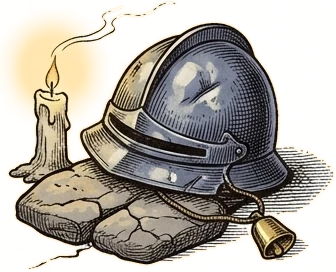
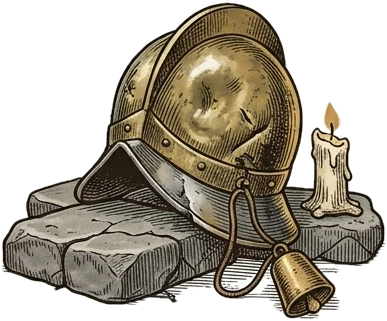
2.21.0: panels and end-screen pieces redrawn at their real proportions
Claude-Session: https://claude.ai/code/session_01DcTTRr3it9U614qgXSqALW

diff --git a/index.html b/index.html
@@ -755,8 +755,13 @@ button.primary:not(.link):not(.offer):active:not(:disabled) { filter: brightness
 .sm .skull { margin: 0 0 0 .2em; }
 
 /* panels */
-.status, details.rules, .shop, .end, .contract.board, .ware, .relic, .settle { background: none; border-color: transparent; border-radius: 0; border-image: url(assets/ui/panel2-main.webp) 32 fill / 12px stretch; }
-.status { gap: 0; } .status .stat { background: transparent; }
+.status, .shop, .end, .contract.board { background: none; border-color: transparent; border-radius: 0; border-image: url(assets/ui/panel3-main.webp) 96 fill / 26px stretch; }
+.settle { background: none; border-color: transparent; border-radius: 0; border-image: url(assets/ui/panel3-mid.webp) 96 fill / 26px stretch; }
+details.rules { background: none; border-color: transparent; border-radius: 0; border-image: url(assets/ui/panel3-banner.webp) 45 40 fill / 22.5px 20px stretch; }
+.ware { background: none; border-color: transparent; border-radius: 0; border-image: url(assets/ui/panel3-note.webp) 100 fill / 34px stretch; }
+.relic { background: rgba(8,12,18,.55); border: 1px solid #6e5a35; border-radius: 3px; border-image: none; }
+.relic.empty { background: none; border-color: transparent; border-radius: 0; border-image: url(assets/ui/panel3-slot.webp) 57 fill / 28.5px stretch; }
+.status { gap: 0; padding: 8px; } .status .stat { background: transparent; }
 .relic.empty { border-style: solid; }
 .coach, .coach.hint, .coach.done { background: none; border-color: transparent; border-radius: 0; box-shadow: 0 6px 18px rgba(0,0,0,.35); border-image: url(assets/ui/panel-gold.webp) 40 fill / 14px stretch; }
 .coach.done .label::before { content: ''; display: inline-block; width: 1.4em; height: 1.4em; vertical-align: -.4em; margin-right: 4px; background: url(assets/ui/icon-check.webp) center / contain no-repeat; }
@@ -810,7 +815,7 @@ details[open] > summary::before { transform: rotate(90deg); }
 header .pause { flex: none; width: 40px; height: 40px; padding: 6px; display: grid; place-items: center; }
 header .pause img { width: 24px; height: 24px; }
 .overlay { position: fixed; inset: 0; z-index: 30; display: grid; place-items: center; padding: 16px; background: rgba(8,10,14,.72); backdrop-filter: blur(2px); }
-.pausebox { display: grid; gap: 12px; width: min(100%, 320px); padding: 22px 22px 24px; text-align: center; border: 1px solid transparent; border-image: url(assets/ui/panel2-main.webp) 32 fill / 12px stretch; box-shadow: 0 12px 40px rgba(0,0,0,.6); }
+.pausebox { display: grid; gap: 12px; width: min(100%, 320px); padding: 22px 22px 24px; text-align: center; border: 1px solid transparent; border-image: url(assets/ui/panel3-main.webp) 96 fill / 26px stretch; box-shadow: 0 12px 40px rgba(0,0,0,.6); }
 .pausebox h2 { font-size: 28px; }
 .pausebox .volume { display: flex; align-items: center; gap: 10px; justify-content: center; }
 .pausebox .volume span { width: 54px; text-align: left; }
@@ -846,7 +851,7 @@ main.solo.map { max-width: 980px; }
 .actmap h2::after { content: ''; display: block; width: 240px; height: 34px; margin: 2px auto 0; background: url(assets/ui/divider.webp) center / contain no-repeat; }
 .floors { position: relative; display: grid; grid-template-columns: repeat(3, minmax(0, 1fr)); gap: 16px; width: 100%; }
 .floors::before { content: ''; position: absolute; left: 16%; right: 16%; top: calc(16px + var(--tok) / 2); border-top: 3px dashed rgba(224,180,80,.45); z-index: 0; }
-.floor { position: relative; z-index: 1; display: grid; gap: 6px; justify-items: center; align-content: start; padding: 16px 12px 18px; border: 1px solid transparent; border-image: url(assets/ui/panel2-main.webp) 32 fill / 12px stretch; }
+.floor { position: relative; z-index: 1; display: grid; gap: 6px; justify-items: center; align-content: start; padding: 16px 12px 18px; border: 1px solid transparent; border-image: url(assets/ui/panel3-floor.webp) 96 fill / 26px stretch; }
 /* Gold marks where you are (the next floor). The boss floor is marked in red, so it never reads as your position. */
 .floor.next { border-image: url(assets/ui/panel-gold.webp) 40 fill / 14px stretch; }
 .floor.bossfloor { outline: 2px solid rgba(208,84,91,.6); outline-offset: -7px; }
@@ -871,7 +876,7 @@ main.solo.map { max-width: 980px; }
 .floor .mark img { position: absolute; inset: 0; width: 100%; height: 100%; }
 .floor .mark b { position: relative; font: 700 18px/1 var(--mono); letter-spacing: .12em; }
 .floor .mark.paid b { color: #2f8f3e; } .floor .mark.strike b { color: #c8312f; }
-.actmap .dues { margin: 0; padding: 8px 14px; font-size: 15px; border: 1px solid transparent; border-image: url(assets/ui/panel2-main.webp) 32 fill / 12px stretch; }
+.actmap .dues { margin: 0; padding: 8px 14px; font-size: 15px; border: 1px solid transparent; border-image: url(assets/ui/panel3-banner.webp) 45 40 fill / 22.5px 20px stretch; }
 .actmap .go { font-size: 20px; padding: 12px 44px; font-family: var(--display); font-weight: 400; letter-spacing: .04em; }
 @media (prefers-reduced-motion: reduce) { .floor.next { transform: none; } }
 /* Shorter desktop windows: a smaller title so the act fits without scrolling. */
@@ -915,10 +920,10 @@ main.solo.map { max-width: 980px; }
 .shopsign h2 { font-size: 26px; color: var(--gold); text-shadow: 0 2px 4px #000; }
 .purse { display: inline-flex; align-items: center; gap: 6px; font-size: 15px; color: var(--ash); }
 .purse img { width: 26px; height: 26px; } .purse b { font-size: 22px; color: var(--gold); }
-.shop .settle { border-image: url(assets/ui/panel2-main.webp) 32 fill / 12px stretch; }
+.shop .settle { border-image: url(assets/ui/panel3-mid.webp) 96 fill / 26px stretch; }
 .shelf { display: grid; gap: 6px; padding: 8px 10px 16px; border-radius: 8px; background: rgba(12,9,6,.28); box-shadow: inset 0 -12px 0 #4a3322, inset 0 -14px 0 rgba(0,0,0,.5), inset 0 -16px 10px rgba(0,0,0,.3); }
 .shelf > .label { color: #e8d9b5; text-shadow: 0 1px 2px #000; }
-.shop .ware { background: none; border: 0; border-image: url(assets/ui/panel2-note.webp) 34 fill / 14px stretch; /* 9-slice: the torn edges keep their shape at any size */ color: var(--paper-ink); padding: 20px 14px 14px; gap: 6px; filter: drop-shadow(0 4px 5px rgba(0,0,0,.55)); }
+.shop .ware { background: none; border: 0; border-image: url(assets/ui/panel3-note.webp) 100 fill / 34px stretch; /* 9-slice: the torn edges keep their shape at any size */ color: var(--paper-ink); padding: 20px 14px 14px; gap: 6px; filter: drop-shadow(0 4px 5px rgba(0,0,0,.55)); }
 .shop .ware::before { content: ''; position: absolute; z-index: 1; top: -5px; left: 50%; width: 18px; height: 23px; margin-left: -9px; background: url(assets/ui/ware-pin.webp) center / contain no-repeat; filter: drop-shadow(0 2px 1px rgba(0,0,0,.45)); pointer-events: none; }
 .shop .ware:nth-child(2) { transform: rotate(.8deg); } .shop .ware:nth-child(3) { transform: rotate(-.7deg); }
 .shop .ware b { color: var(--paper-ink); }
@@ -936,8 +941,8 @@ main.solo.map { max-width: 980px; }
 .buyrow button { padding: 6px 16px; }
 .shopexit { display: flex; align-items: center; gap: 12px; flex-wrap: wrap; }
 .shopexit .muted { color: #d8cdb4; font-size: 14px; }
-.shop .relic { border-image: url(assets/ui/panel2-main.webp) 32 fill / 12px stretch; }
-.shop .warn { border-image: url(assets/ui/panel2-main.webp) 32 fill / 12px stretch; }
+.shop .relic { border-image: url(assets/ui/panel3-main.webp) 96 fill / 26px stretch; }
+.shop .warn { border-image: url(assets/ui/panel3-main.webp) 96 fill / 26px stretch; }
 @media not ((min-width: 900px) and (min-height: 520px)) {
   .shopsign { display: none; } /* gold is in the status bar right above */
   .side:has(.settle) .coach.hint .sub, .side:has(.settle) .coach.hint .label { display: none; } /* in the shop the tip says enough; the goal returns after */
@@ -969,7 +974,7 @@ main.solo.map { max-width: 980px; }
 [data-tip], [data-tip] img { -webkit-touch-callout: none; }
 @media (hover: none) { body { -webkit-user-select: none; user-select: none; -webkit-tap-highlight-color: transparent; } input, textarea { -webkit-user-select: text; user-select: text; } [data-tip] { cursor: pointer; } }
 @media (hover: none) { [data-tip] { -webkit-user-select: none; user-select: none; } [data-tip], [data-tip] img { -webkit-touch-callout: none; } } /* a hold shows the tip, not iOS's image menu */
-#tip { position: fixed; z-index: 40; left: 0; top: 0; max-width: min(280px, calc(100vw - 24px)); padding: 9px 13px 11px; display: none; gap: 3px; pointer-events: none; color: var(--bone); font-size: 14px; line-height: 1.35; text-align: left; border: 1px solid transparent; border-image: url(assets/ui/panel2-tip.webp) 28 fill / 10px stretch; filter: drop-shadow(0 8px 16px rgba(0,0,0,.7)); }
+#tip { position: fixed; z-index: 40; left: 0; top: 0; max-width: min(280px, calc(100vw - 24px)); padding: 9px 13px 11px; display: none; gap: 3px; pointer-events: none; color: var(--bone); font-size: 14px; line-height: 1.35; text-align: left; border: 1px solid transparent; border-image: url(assets/ui/panel3-tip.webp) 44 fill / 22px stretch; filter: drop-shadow(0 8px 16px rgba(0,0,0,.7)); }
 #tip.on { display: grid; animation: tipin .12s ease-out; }
 #tip b { font: 400 17px/1.1 var(--display); color: var(--gold); }
 #tip span b { font: inherit; font-weight: 700; color: var(--bone); }
@@ -1269,7 +1274,7 @@ main.play .stage .shop .ware .buyrow { grid-column: 2; align-self: start; margin
 @media (max-height: 400px) and (orientation: landscape) { .shop .warn.dueswarn { padding: 2px 8px; font-size: 12px; } }
 /* ---------- 1.24.0: payout screen ---------- */
 .payout { position: relative; display: grid; gap: 14px; justify-items: stretch; width: min(560px, 100%); justify-self: center; box-sizing: border-box; padding: 22px 26px 24px;
-  border: 1px solid transparent; border-image: url(assets/ui/panel2-main.webp) 32 fill / 12px stretch; box-shadow: 0 10px 30px rgba(0,0,0,.5); }
+  border: 1px solid transparent; border-image: url(assets/ui/panel3-main.webp) 96 fill / 26px stretch; box-shadow: 0 10px 30px rgba(0,0,0,.5); }
 @media (min-width: 900px) and (min-height: 700px) {
   .payout { width: min(680px, 100%); padding: 30px 36px 32px; gap: 18px; }
   .payout .phead .clerk { width: 104px; height: 104px; } .payout h2 { font-size: 40px; } .payout .pkills { font-size: 19px; }
@@ -1342,7 +1347,7 @@ svg.rglyph circle.ring { fill: none; stroke-width: 2; opacity: .55; }
 svg.rglyph.rare circle:not(.ring) { stroke-width: 7; } svg.rglyph.boss circle:not(.ring) { fill: #2a1414; stroke: #e7c46a; stroke-width: 8; }
 svg.rglyph text { fill: var(--fc, #ddd); font-size: 42px; font-family: 'Segoe UI Symbol', 'Noto Sans Symbols 2', 'Apple Symbols', sans-serif; }
 .pickview { position: relative; display: grid; gap: 14px; width: min(860px, 100%); justify-self: center; box-sizing: border-box; padding: 20px 24px 22px;
-  border: 1px solid transparent; border-image: url(assets/ui/panel2-main.webp) 32 fill / 12px stretch; box-shadow: 0 10px 30px rgba(0,0,0,.5); }
+  border: 1px solid transparent; border-image: url(assets/ui/panel3-main.webp) 96 fill / 26px stretch; box-shadow: 0 10px 30px rgba(0,0,0,.5); }
 .pickview .phead { display: flex; gap: 14px; align-items: center; }
 .pickview .phead .clerk { width: 76px; height: 76px; flex: none; border-radius: 8px; object-fit: cover; }
 .pickview h2 { margin: 2px 0; font-size: 30px; line-height: 1.05; color: #f1d488; }
@@ -2375,7 +2380,7 @@ img.clerk { box-shadow: none; border-radius: 0; object-fit: contain !important; 
 const E = window.Engine;
 // Semantic version: MAJOR = overhaul or redesign, MINOR = update, PATCH = bug fix. Bump it in every change and add a CHANGELOG.md entry.
 // Runs from before versioning carry the old tags 'v3' (first public playtest) and 'v4'.
-const VERSION = '2.20.0';
+const VERSION = '2.21.0';
 // Web build only: where run reports go (a Google Form). Empty in the Claude-hosted build.
 const REPORT = {"url": "https://docs.google.com/forms/d/e/1FAIpQLScAulcyNeUuIkKvoNN67TcOBPP4DqzCyN0W5lsdEM4vQ-SZ4w/formResponse", "entry": "entry.1553952563"};
 const BOARD_CSV = "https://docs.google.com/spreadsheets/d/e/2PACX-1vSUVN5ytJFkGg9NFstRvqxNMD3CIX85ApjWW1Hc8mw0DPSgz31VPmJhZ07FcwhStCdDALGtq5ZI2L8r/pub?gid=1200368070&single=true&output=csv"; // the Sheet's published Leaderboard tab; empty hides the board

diff --git a/src/ui.html b/src/ui.html
@@ -754,8 +754,13 @@ button.primary:not(.link):not(.offer):active:not(:disabled) { filter: brightness
 .sm .skull { margin: 0 0 0 .2em; }
 
 /* panels */
-.status, details.rules, .shop, .end, .contract.board, .ware, .relic, .settle { background: none; border-color: transparent; border-radius: 0; border-image: url(assets/ui/panel2-main.webp) 32 fill / 12px stretch; }
-.status { gap: 0; } .status .stat { background: transparent; }
+.status, .shop, .end, .contract.board { background: none; border-color: transparent; border-radius: 0; border-image: url(assets/ui/panel3-main.webp) 96 fill / 26px stretch; }
+.settle { background: none; border-color: transparent; border-radius: 0; border-image: url(assets/ui/panel3-mid.webp) 96 fill / 26px stretch; }
+details.rules { background: none; border-color: transparent; border-radius: 0; border-image: url(assets/ui/panel3-banner.webp) 45 40 fill / 22.5px 20px stretch; }
+.ware { background: none; border-color: transparent; border-radius: 0; border-image: url(assets/ui/panel3-note.webp) 100 fill / 34px stretch; }
+.relic { background: rgba(8,12,18,.55); border: 1px solid #6e5a35; border-radius: 3px; border-image: none; }
+.relic.empty { background: none; border-color: transparent; border-radius: 0; border-image: url(assets/ui/panel3-slot.webp) 57 fill / 28.5px stretch; }
+.status { gap: 0; padding: 8px; } .status .stat { background: transparent; }
 .relic.empty { border-style: solid; }
 .coach, .coach.hint, .coach.done { background: none; border-color: transparent; border-radius: 0; box-shadow: 0 6px 18px rgba(0,0,0,.35); border-image: url(assets/ui/panel-gold.webp) 40 fill / 14px stretch; }
 .coach.done .label::before { content: ''; display: inline-block; width: 1.4em; height: 1.4em; vertical-align: -.4em; margin-right: 4px; background: url(assets/ui/icon-check.webp) center / contain no-repeat; }
@@ -809,7 +814,7 @@ details[open] > summary::before { transform: rotate(90deg); }
 header .pause { flex: none; width: 40px; height: 40px; padding: 6px; display: grid; place-items: center; }
 header .pause img { width: 24px; height: 24px; }
 .overlay { position: fixed; inset: 0; z-index: 30; display: grid; place-items: center; padding: 16px; background: rgba(8,10,14,.72); backdrop-filter: blur(2px); }
-.pausebox { display: grid; gap: 12px; width: min(100%, 320px); padding: 22px 22px 24px; text-align: center; border: 1px solid transparent; border-image: url(assets/ui/panel2-main.webp) 32 fill / 12px stretch; box-shadow: 0 12px 40px rgba(0,0,0,.6); }
+.pausebox { display: grid; gap: 12px; width: min(100%, 320px); padding: 22px 22px 24px; text-align: center; border: 1px solid transparent; border-image: url(assets/ui/panel3-main.webp) 96 fill / 26px stretch; box-shadow: 0 12px 40px rgba(0,0,0,.6); }
 .pausebox h2 { font-size: 28px; }
 .pausebox .volume { display: flex; align-items: center; gap: 10px; justify-content: center; }
 .pausebox .volume span { width: 54px; text-align: left; }
@@ -845,7 +850,7 @@ main.solo.map { max-width: 980px; }
 .actmap h2::after { content: ''; display: block; width: 240px; height: 34px; margin: 2px auto 0; background: url(assets/ui/divider.webp) center / contain no-repeat; }
 .floors { position: relative; display: grid; grid-template-columns: repeat(3, minmax(0, 1fr)); gap: 16px; width: 100%; }
 .floors::before { content: ''; position: absolute; left: 16%; right: 16%; top: calc(16px + var(--tok) / 2); border-top: 3px dashed rgba(224,180,80,.45); z-index: 0; }
-.floor { position: relative; z-index: 1; display: grid; gap: 6px; justify-items: center; align-content: start; padding: 16px 12px 18px; border: 1px solid transparent; border-image: url(assets/ui/panel2-main.webp) 32 fill / 12px stretch; }
+.floor { position: relative; z-index: 1; display: grid; gap: 6px; justify-items: center; align-content: start; padding: 16px 12px 18px; border: 1px solid transparent; border-image: url(assets/ui/panel3-floor.webp) 96 fill / 26px stretch; }
 /* Gold marks where you are (the next floor). The boss floor is marked in red, so it never reads as your position. */
 .floor.next { border-image: url(assets/ui/panel-gold.webp) 40 fill / 14px stretch; }
 .floor.bossfloor { outline: 2px solid rgba(208,84,91,.6); outline-offset: -7px; }
@@ -870,7 +875,7 @@ main.solo.map { max-width: 980px; }
 .floor .mark img { position: absolute; inset: 0; width: 100%; height: 100%; }
 .floor .mark b { position: relative; font: 700 18px/1 var(--mono); letter-spacing: .12em; }
 .floor .mark.paid b { color: #2f8f3e; } .floor .mark.strike b { color: #c8312f; }
-.actmap .dues { margin: 0; padding: 8px 14px; font-size: 15px; border: 1px solid transparent; border-image: url(assets/ui/panel2-main.webp) 32 fill / 12px stretch; }
+.actmap .dues { margin: 0; padding: 8px 14px; font-size: 15px; border: 1px solid transparent; border-image: url(assets/ui/panel3-banner.webp) 45 40 fill / 22.5px 20px stretch; }
 .actmap .go { font-size: 20px; padding: 12px 44px; font-family: var(--display); font-weight: 400; letter-spacing: .04em; }
 @media (prefers-reduced-motion: reduce) { .floor.next { transform: none; } }
 /* Shorter desktop windows: a smaller title so the act fits without scrolling. */
@@ -914,10 +919,10 @@ main.solo.map { max-width: 980px; }
 .shopsign h2 { font-size: 26px; color: var(--gold); text-shadow: 0 2px 4px #000; }
 .purse { display: inline-flex; align-items: center; gap: 6px; font-size: 15px; color: var(--ash); }
 .purse img { width: 26px; height: 26px; } .purse b { font-size: 22px; color: var(--gold); }
-.shop .settle { border-image: url(assets/ui/panel2-main.webp) 32 fill / 12px stretch; }
+.shop .settle { border-image: url(assets/ui/panel3-mid.webp) 96 fill / 26px stretch; }
 .shelf { display: grid; gap: 6px; padding: 8px 10px 16px; border-radius: 8px; background: rgba(12,9,6,.28); box-shadow: inset 0 -12px 0 #4a3322, inset 0 -14px 0 rgba(0,0,0,.5), inset 0 -16px 10px rgba(0,0,0,.3); }
 .shelf > .label { color: #e8d9b5; text-shadow: 0 1px 2px #000; }
-.shop .ware { background: none; border: 0; border-image: url(assets/ui/panel2-note.webp) 34 fill / 14px stretch; /* 9-slice: the torn edges keep their shape at any size */ color: var(--paper-ink); padding: 20px 14px 14px; gap: 6px; filter: drop-shadow(0 4px 5px rgba(0,0,0,.55)); }
+.shop .ware { background: none; border: 0; border-image: url(assets/ui/panel3-note.webp) 100 fill / 34px stretch; /* 9-slice: the torn edges keep their shape at any size */ color: var(--paper-ink); padding: 20px 14px 14px; gap: 6px; filter: drop-shadow(0 4px 5px rgba(0,0,0,.55)); }
 .shop .ware::before { content: ''; position: absolute; z-index: 1; top: -5px; left: 50%; width: 18px; height: 23px; margin-left: -9px; background: url(assets/ui/ware-pin.webp) center / contain no-repeat; filter: drop-shadow(0 2px 1px rgba(0,0,0,.45)); pointer-events: none; }
 .shop .ware:nth-child(2) { transform: rotate(.8deg); } .shop .ware:nth-child(3) { transform: rotate(-.7deg); }
 .shop .ware b { color: var(--paper-ink); }
@@ -935,8 +940,8 @@ main.solo.map { max-width: 980px; }
 .buyrow button { padding: 6px 16px; }
 .shopexit { display: flex; align-items: center; gap: 12px; flex-wrap: wrap; }
 .shopexit .muted { color: #d8cdb4; font-size: 14px; }
-.shop .relic { border-image: url(assets/ui/panel2-main.webp) 32 fill / 12px stretch; }
-.shop .warn { border-image: url(assets/ui/panel2-main.webp) 32 fill / 12px stretch; }
+.shop .relic { border-image: url(assets/ui/panel3-main.webp) 96 fill / 26px stretch; }
+.shop .warn { border-image: url(assets/ui/panel3-main.webp) 96 fill / 26px stretch; }
 @media not ((min-width: 900px) and (min-height: 520px)) {
   .shopsign { display: none; } /* gold is in the status bar right above */
   .side:has(.settle) .coach.hint .sub, .side:has(.settle) .coach.hint .label { display: none; } /* in the shop the tip says enough; the goal returns after */
@@ -968,7 +973,7 @@ main.solo.map { max-width: 980px; }
 [data-tip], [data-tip] img { -webkit-touch-callout: none; }
 @media (hover: none) { body { -webkit-user-select: none; user-select: none; -webkit-tap-highlight-color: transparent; } input, textarea { -webkit-user-select: text; user-select: text; } [data-tip] { cursor: pointer; } }
 @media (hover: none) { [data-tip] { -webkit-user-select: none; user-select: none; } [data-tip], [data-tip] img { -webkit-touch-callout: none; } } /* a hold shows the tip, not iOS's image menu */
-#tip { position: fixed; z-index: 40; left: 0; top: 0; max-width: min(280px, calc(100vw - 24px)); padding: 9px 13px 11px; display: none; gap: 3px; pointer-events: none; color: var(--bone); font-size: 14px; line-height: 1.35; text-align: left; border: 1px solid transparent; border-image: url(assets/ui/panel2-tip.webp) 28 fill / 10px stretch; filter: drop-shadow(0 8px 16px rgba(0,0,0,.7)); }
+#tip { position: fixed; z-index: 40; left: 0; top: 0; max-width: min(280px, calc(100vw - 24px)); padding: 9px 13px 11px; display: none; gap: 3px; pointer-events: none; color: var(--bone); font-size: 14px; line-height: 1.35; text-align: left; border: 1px solid transparent; border-image: url(assets/ui/panel3-tip.webp) 44 fill / 22px stretch; filter: drop-shadow(0 8px 16px rgba(0,0,0,.7)); }
 #tip.on { display: grid; animation: tipin .12s ease-out; }
 #tip b { font: 400 17px/1.1 var(--display); color: var(--gold); }
 #tip span b { font: inherit; font-weight: 700; color: var(--bone); }
@@ -1268,7 +1273,7 @@ main.play .stage .shop .ware .buyrow { grid-column: 2; align-self: start; margin
 @media (max-height: 400px) and (orientation: landscape) { .shop .warn.dueswarn { padding: 2px 8px; font-size: 12px; } }
 /* ---------- 1.24.0: payout screen ---------- */
 .payout { position: relative; display: grid; gap: 14px; justify-items: stretch; width: min(560px, 100%); justify-self: center; box-sizing: border-box; padding: 22px 26px 24px;
-  border: 1px solid transparent; border-image: url(assets/ui/panel2-main.webp) 32 fill / 12px stretch; box-shadow: 0 10px 30px rgba(0,0,0,.5); }
+  border: 1px solid transparent; border-image: url(assets/ui/panel3-main.webp) 96 fill / 26px stretch; box-shadow: 0 10px 30px rgba(0,0,0,.5); }
 @media (min-width: 900px) and (min-height: 700px) {
   .payout { width: min(680px, 100%); padding: 30px 36px 32px; gap: 18px; }
   .payout .phead .clerk { width: 104px; height: 104px; } .payout h2 { font-size: 40px; } .payout .pkills { font-size: 19px; }
@@ -1341,7 +1346,7 @@ svg.rglyph circle.ring { fill: none; stroke-width: 2; opacity: .55; }
 svg.rglyph.rare circle:not(.ring) { stroke-width: 7; } svg.rglyph.boss circle:not(.ring) { fill: #2a1414; stroke: #e7c46a; stroke-width: 8; }
 svg.rglyph text { fill: var(--fc, #ddd); font-size: 42px; font-family: 'Segoe UI Symbol', 'Noto Sans Symbols 2', 'Apple Symbols', sans-serif; }
 .pickview { position: relative; display: grid; gap: 14px; width: min(860px, 100%); justify-self: center; box-sizing: border-box; padding: 20px 24px 22px;
-  border: 1px solid transparent; border-image: url(assets/ui/panel2-main.webp) 32 fill / 12px stretch; box-shadow: 0 10px 30px rgba(0,0,0,.5); }
+  border: 1px solid transparent; border-image: url(assets/ui/panel3-main.webp) 96 fill / 26px stretch; box-shadow: 0 10px 30px rgba(0,0,0,.5); }
 .pickview .phead { display: flex; gap: 14px; align-items: center; }
 .pickview .phead .clerk { width: 76px; height: 76px; flex: none; border-radius: 8px; object-fit: cover; }
 .pickview h2 { margin: 2px 0; font-size: 30px; line-height: 1.05; color: #f1d488; }
@@ -1504,7 +1509,7 @@ img.clerk { box-shadow: none; border-radius: 0; object-fit: contain !important; 
 const E = window.Engine;
 // Semantic version: MAJOR = overhaul or redesign, MINOR = update, PATCH = bug fix. Bump it in every change and add a CHANGELOG.md entry.
 // Runs from before versioning carry the old tags 'v3' (first public playtest) and 'v4'.
-const VERSION = '2.20.0';
+const VERSION = '2.21.0';
 // Web build only: where run reports go (a Google Form). Empty in the Claude-hosted build.
 const REPORT = { url: '', entry: '' }; /*REPORT_CONFIG*/
 const BOARD_CSV = ''; /*BOARD_CONFIG*/ // the Sheet's published Leaderboard tab; empty hides the board

diff --git a/CHANGELOG.md b/CHANGELOG.md
@@ -8,6 +8,12 @@ Scapegrace (called Guild Ledger before 1.20.0) uses a three-part version number,
 
 The version lives in `VERSION` near the top of the script in `src/ui.html`. It is shown at the bottom of every screen and sent with every run report, so feedback can be matched to the build that produced it.
 
+## 2.21.0 (2026-10-17)
+Panels and end-screen pieces redrawn at their real proportions.
+- New dark engraved panels drawn per use: main (status, shop, end, contract board, menus), a wider short one for payouts, a tall one for the floor map, a thin banner for the Top scores and Log rows, a notched tooltip, deckled note paper for shop wares, and a recessed ring for empty relic slots.
+- Filled relic slots are a plain dark square so the icon stays clear.
+- Death, revoked and win screens have new pieces (brass helmet and candle, torn licence with a quill, closed ledger with a hoof print).
+
 ## 2.20.0 (2026-10-17)
 Buttons redrawn at the exact sizes they have in the game.
 - Each button plate is drawn at its real proportions (main 190x56, secondary 104x40, card play 120x52, mode 100x36, square for the pause button) and used 1:1, so only the plain middle stretches and the wax seals stay round.
